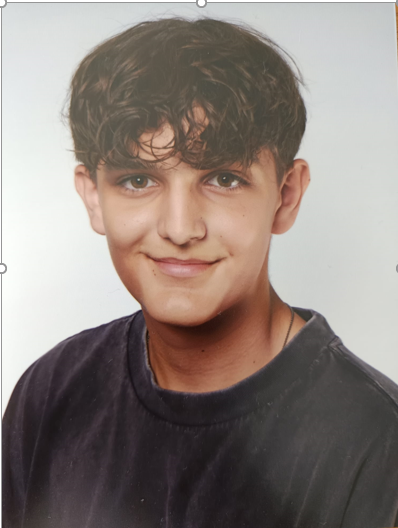
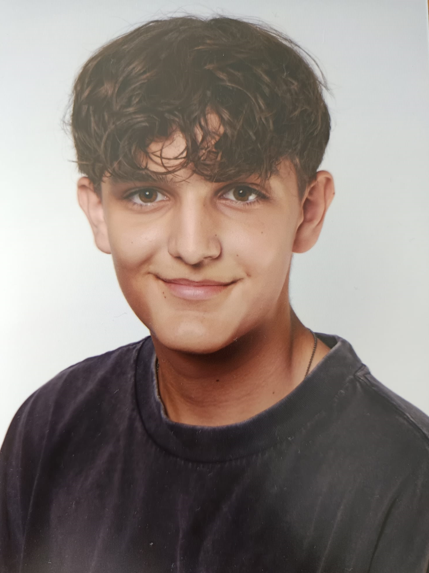
Updated picture and About us

diff --git a/FitnessAndHealthWebseite/aboutUs.html b/FitnessAndHealthWebseite/aboutUs.html
@@ -19,7 +19,8 @@
         <table class = "borderStyle" align="center">
             <tbody>
                 <tr class = "borderStyle">
-                    <td><img src="icones/JanBild.png" alt = "Jan" height="250px"></td>
+
+                    <td><img src="icones/JanBild.png" alt = "Jan" width="200px"></td>
                     <td>
                         <pre class = "textInAboutUs">
                             Ich bin Jan Brunner, 15 Jahre alt und lebe in Österreich.
@@ -29,7 +30,7 @@
                     </td>
                 </tr>
                 <tr class = "borderStyle" >
-                    <td><img src = "icones/LorenzBild.JPG" alt = "Lorenz" height="250px"></td>
+                    <td><img src = "icones/LorenzBild.JPG" alt = "Lorenz" width="200px"></td>
                     <td>
                         <pre class = "textInAboutUs">
                             Ich bin Lorenz Parzer, 16 Jahre alt und wohne in Österreich und ein Schüler und angehender Softwareentwickler an der HTL Leonding.
@@ -39,7 +40,7 @@
                     </td>
                 </tr>
                 <tr class = "borderStyle">
-                    <td><img src = "icones/ErnadPhoto.jpg" alt = "Ernad" height="250px"></td>
+                    <td><img src = "icones/ErnadPhoto.jpg" alt = "Ernad" width="200px"></td>
                     <td>
                         <pre class="textInAboutUs">
                             Mein Name ist Ernad Music und ich bin Schüler der HTL Leonding und einer der Entwickler dieser Website.
@@ -49,7 +50,7 @@
                     </td>
                 </tr>
                 <tr>
-                    <td><img src = "icones/MarioBild.jpg" alt = "Mario" height="250px"></td>
+                    <td><img src = "icones/MarioBild.jpg" alt = "Mario" width="200px"></td>
                     <td>
                         <pre class = "textInAboutUs">
                             Mein Name ist Mario Solomun und ich bin Teil der Entwickler von dieser Webseite.

diff --git a/FitnessAndHealthWebseite/stylesheet.css b/FitnessAndHealthWebseite/stylesheet.css
@@ -246,3 +246,8 @@ pre.textInAboutUs
     color: white;
     font-family: Arial, Serif;
 }
+
+
+
+
+
